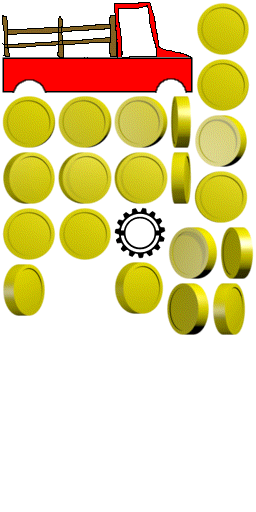
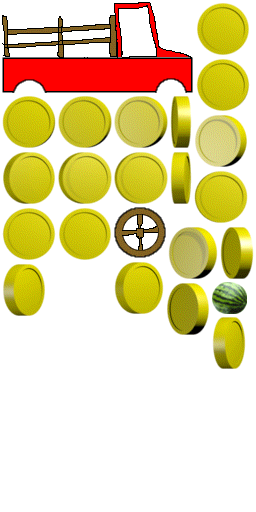
JS game:  added watermelon

Changed region(s): [[0.8125, 0.5312, 0.9688, 0.7188], [0.4375, 0.4062, 0.6562, 0.5312]]

diff --git a/tests/SpiderMonkeyTest/javascript-spidermonkey/game-main.js b/tests/SpiderMonkeyTest/javascript-spidermonkey/game-main.js
@@ -10,8 +10,20 @@
 // A JS game using cocos2d and Chipmunk
 //
 
-
 require("javascript-spidermonkey/helper.js");
+
+// Z Orders
+Z_WATERMELON = 5;
+Z_COIN = 8;
+Z_CHASSIS = 10;
+Z_WHEEL = 11;
+Z_LABEL = 20;
+Z_DEBUG = 50;
+
+// Game state
+STATE_PAUSE = 0;
+STATE_PLAYING = 1;
+STATE_GAME_OVER = 2;
 
 audioEngine = cc.AudioEngine.getInstance();
 director = cc.Director.getInstance();
@@ -22,8 +34,8 @@ centerPos = cc.p( winSize.width/2, winSize.height/2 );
 //
 // Levels
 //
-level0 = {'coins' : [ {x:20,y:20}, {x:30,y:30}, {x:40,y:40}, {x:50,y:50}, {x:60,y:60} ],
-          'car' : {x:80, y:30}, 
+level0 = {'coins' : [ {x:220,y:80}, {x:430,y:130}, ],
+          'car' : {x:80, y:60}, 
 
           // points in absolute position.
 //          'segments' : [ {x0:0, y0:0, x1:100, y1:50}, ],
@@ -42,6 +54,8 @@ INFINITY = 1e50;
 
 COLLISION_TYPE_CAR = 1;
 COLLISION_TYPE_COIN = 2;
+COLLISION_TYPE_WATERMELON = 3;
+COLLISION_TYPE_FLOOR = 4;
 
 // Create some collision rules for fancy layer based filtering.
 // There is more information about how this works in the Chipmunk docs.
@@ -55,7 +69,7 @@ COLLISION_LAYERS_BUGGY = (COLLISION_RULE_TERRAIN_BUGGY | COLLISION_RULE_BUGGY_ON
 // Some constants for controlling the car and world:
 GRAVITY =  1200.0;
 WHEEL_MASS = 0.25;
-CHASSIS_MASS = 1.0;
+CHASSIS_MASS = 0.7;
 FRONT_SPRING = 150.0;
 FRONT_DAMPING = 3.0;
 COG_ADJUSTMENT = cp.v(0.0, -10.0);
@@ -70,6 +84,8 @@ DIFFERENTIAL_TORQUE = 0.5;
 // Groups
 GROUP_BUGGY = 1;
 GROUP_COIN = 2;
+
+WATERMELON_MASS = 0.05;
 
 // Node Tags (used by CocosBuilder)
 SCORE_LABEL_TAG = 10;
@@ -89,6 +105,8 @@ var GameLayer = cc.LayerGradient.extend({
     _shapesToRemove:[],
     _score:0,
     _scoreLabel:null,
+    _state:STATE_PAUSE,
+    _debugNode:null,
 
     ctor:function () {
                                 
@@ -107,10 +125,12 @@ var GameLayer = cc.LayerGradient.extend({
 
 
         cc.MenuItemFont.setFontSize(16);
-        var menuItem = cc.MenuItemFont.create("Reset", this, this.reset );
-        var menu = cc.Menu.create( menuItem );
+        var item1 = cc.MenuItemFont.create("Reset", this, this.onReset);
+        var item2 = cc.MenuItemFont.create("Debug On/Off", this, this.onToggleDebug);
+        var menu = cc.Menu.create( item1, item2 );
+        menu.alignItemsVertically();
         this.addChild( menu );
-        menu.setPosition( cc._p( 40,60)  );
+        menu.setPosition( cc._p( winSize.width-40, winSize.height-80 )  );
     
         var animCache = cc.AnimationCache.getInstance();
         animCache.addAnimationsWithFile("coins_animation.plist");
@@ -135,10 +155,6 @@ var GameLayer = cc.LayerGradient.extend({
         this._scoreLabel = hud.getChildByTag( SCORE_LABEL_TAG );
     },
 
-    reset:function() {
-        run();
-    },
-
     addScore:function(value) {
         this._score += value;
         this._scoreLabel.setString( this._score );
@@ -152,6 +168,15 @@ var GameLayer = cc.LayerGradient.extend({
     },
 
     // Events
+    onReset:function(sender) {
+        run();
+    },
+
+    onToggleDebug:function(sender) {
+        var state = this._debugNode.getVisible();
+        this._debugNode.setVisible( !state );
+    },
+
     onMouseDown:function(event) {
         this.setThrottle(1);
         return true;
@@ -182,7 +207,8 @@ var GameLayer = cc.LayerGradient.extend({
         cp.spaceFree( this._space );
     },
 
-	onCollisionBegin : function ( arbiter, space ) {
+    // Coin and Car
+	onCollisionBeginCoin : function ( arbiter, space ) {
 
 		var bodies = cp.arbiterGetBodies( arbiter );
 		var shapes = cp.arbiterGetShapes( arbiter );
@@ -204,6 +230,12 @@ var GameLayer = cc.LayerGradient.extend({
             cc.log("Adding shape: " + shapeCoin );
             this.addScore(1);
         }
+        return true;
+	},
+
+    // Floor and Watermelon
+	onCollisionBeginWatermelon : function ( arbiter, space ) {
+        this.setGameState( STATE_GAME_OVER );
         return true;
 	},
 
@@ -288,6 +320,7 @@ var GameLayer = cc.LayerGradient.extend({
 			var wall = walls[i];
 			cp.shapeSetElasticity(wall, 1);
 			cp.shapeSetFriction(wall, 1);
+            cp.shapeSetCollisionType(wall, COLLISION_TYPE_FLOOR);
 			cp.spaceAddStaticShape( this._space, wall );
 		}
 
@@ -295,12 +328,13 @@ var GameLayer = cc.LayerGradient.extend({
 		cp.spaceSetGravity( this._space, cp._v(0, -GRAVITY) );
 
         // collision handler
-		cp.spaceAddCollisionHandler( this._space, COLLISION_TYPE_CAR, COLLISION_TYPE_COIN, this, this.onCollisionBegin, null, null, null );
+		cp.spaceAddCollisionHandler( this._space, COLLISION_TYPE_CAR, COLLISION_TYPE_COIN, this, this.onCollisionBeginCoin, null, null, null );
+		cp.spaceAddCollisionHandler( this._space, COLLISION_TYPE_FLOOR, COLLISION_TYPE_WATERMELON, this, this.onCollisionBeginWatermelon, null, null, null );
 
         // debug only
-        var debug = cc.ChipmunkDebugNode.create( this._space );
-        debug.setVisible( true );
-        this.addChild( debug, 100 );
+        this._debugNode = cc.ChipmunkDebugNode.create( this._space );
+        this._debugNode.setVisible( false );
+        this.addChild( this._debugNode, Z_DEBUG);
 	},
 
     setThrottle : function( throttle ) {
@@ -337,6 +371,7 @@ var GameLayer = cc.LayerGradient.extend({
         this._chassis = this.createChassis( cp.vadd( pos, COG_ADJUSTMENT ) );
         this._rearWheel = this.createWheel( cp.vadd( pos, cp._v(-35, -25) ) );
         this.createCarJoints( this._chassis, front, this._rearWheel );
+        this.createCarFruits( pos );
 
         this.setThrottle( 0 );
     },
@@ -416,7 +451,7 @@ var GameLayer = cc.LayerGradient.extend({
 
         cp.spaceAddBody( this._space, body );
         cp.spaceAddShape( this._space, shape );
-        this._batch.addChild( sprite, 10 );
+        this._batch.addChild( sprite, Z_WHEEL);
 
         return body;
     },
@@ -435,7 +470,7 @@ var GameLayer = cc.LayerGradient.extend({
         sprite.setBody( body );
 
         cp.spaceAddBody( this._space, body );
-        this._batch.addChild( sprite );
+        this._batch.addChild( sprite, Z_CHASSIS );
 
         // bottom of chassis
         var shape = cp.boxShapeNew( body, cs[0], 15 );
@@ -462,19 +497,36 @@ var GameLayer = cc.LayerGradient.extend({
         cp.shapeSetCollisionType( shape, COLLISION_TYPE_CAR );
         cp.spaceAddShape( this._space, shape );
 
-
-
         return body;
+    },
+
+    createCarFruits : function(pos) {
+        // create some fruits
+        for(var i=0; i < 4;i++) {
+            var sprite = cc.ChipmunkSprite.createWithSpriteFrameName("watermelon.png");  
+            var radius = 0.95 * sprite.getContentSize()[0] / 2;
+
+            var body = cp.bodyNew(WATERMELON_MASS, cp.momentForCircle(WATERMELON_MASS, 0, radius, cp.vzero) );
+            cp.bodySetPos( body, pos );
+            sprite.setBody( body );
+
+            var shape = cp.circleShapeNew( body, radius, cp.vzero );
+            cp.shapeSetFriction( shape, 1 );
+            cp.shapeSetCollisionType( shape, COLLISION_TYPE_WATERMELON);
+
+            cp.spaceAddShape( this._space, shape );
+            cp.spaceAddBody( this._space, body );
+            this._batch.addChild( sprite, Z_WATERMELON );
+        }
     },
 
     createCoin: function( pos ) {
         // coins are static bodies and sensors
         var sprite = cc.ChipmunkSprite.createWithSpriteFrameName("coin01.png");  
         var radius = 0.95 * sprite.getContentSize()[0] / 2;
-
+        
         var body = cp.bodyNew(1, 1);
         cp.bodyInitStatic(body);
-//		var body = cp.spaceGetStaticBody( this._space );
 		cp.bodySetPos( body, pos );
         sprite.setBody( body );
 
@@ -484,9 +536,8 @@ var GameLayer = cc.LayerGradient.extend({
         cp.shapeSetCollisionType( shape, COLLISION_TYPE_COIN );
         cp.shapeSetSensor( shape, true );
 
-//        cp.spaceAddBody( this._space, body );
         cp.spaceAddStaticShape( this._space, shape );
-        this._batch.addChild( sprite, 10 );
+        this._batch.addChild( sprite, Z_COIN);
 
         var animation = cc.AnimationCache.getInstance().getAnimationByName("coin");
         var animate = cc.Animate.create(animation); 
@@ -504,7 +555,19 @@ var GameLayer = cc.LayerGradient.extend({
 		var segment = cp.segmentShapeNew( staticBody, src, dst, 5 );
         cp.shapeSetElasticity(segment, 1);
         cp.shapeSetFriction(segment, 1);
+        cp.shapeSetCollisionType(segment, COLLISION_TYPE_FLOOR);
         cp.spaceAddStaticShape( this._space, segment );
+    },
+
+    //
+    // Game State
+    //
+    setGameState: function( state ) {
+        if( state == STATE_GAME_OVER ) {
+            var label = cc.LabelBMFont.create("GAME OVER", "futura-48.fnt" );
+            label.setPosition( centerPos );
+            this.addChild( label, Z_LABEL );
+        }
     },
 
 });
